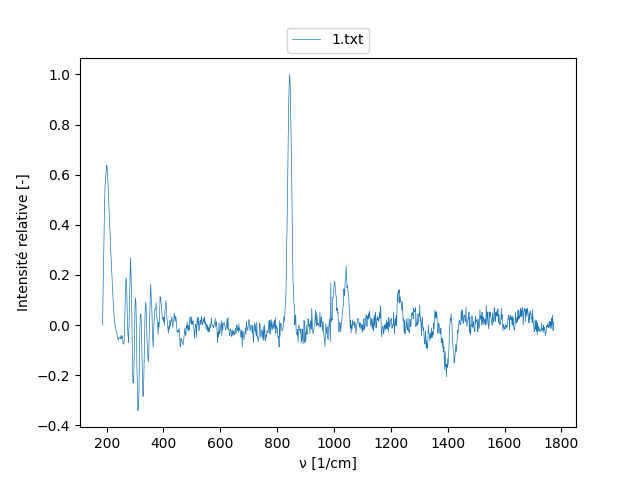
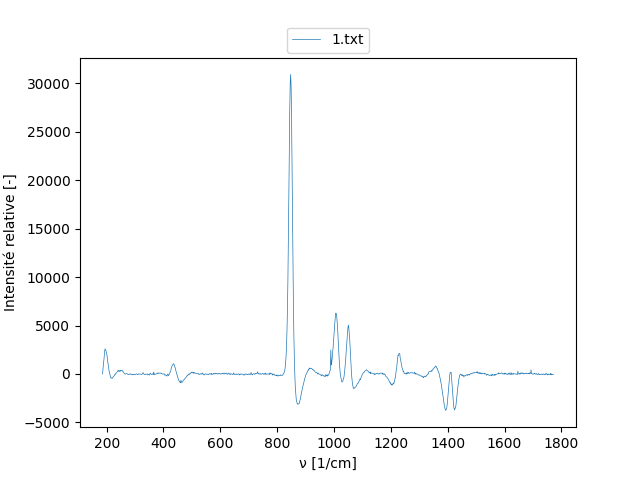
shits à becla

diff --git a/raman_spectrum_copy.py b/raman_spectrum_copy.py
@@ -1,0 +1,138 @@
+"Fichier qui implémente la classe d'objets raman_spectum qui sert à analyser les spectres raman"
+import numpy as np
+import matplotlib.pyplot as plt
+import pandas as pd
+import glob
+from scipy import stats, interpolate
+from scipy.signal import find_peaks
+
+
+class RamanSpectrum:
+    def __init__(self, fich, promi):
+        # self.data = np.genfromtxt(fich, delimiter='     ')
+        self.data = np.genfromtxt(fich, delimiter=',')
+        self.raman = self.data[:, 0]
+        self.counts = self.data[:, 2]
+        self.promi = int(promi)
+        self.peaks = self.getPeaks()
+        self.name = fich
+
+    def graph(self, peaks=False):
+        plt.plot(self.raman, self.counts, label=f'{self.name}')
+        if peaks:
+            for x in self.peaks:
+                plt.plot(x[0], x[1], 'o', color='red')
+                plt.text(x[0], x[1] + 0.5, '({}, {})'.format(x[0], x[1]))
+        plt.legend()
+        plt.xlabel('Raman shift')
+        plt.ylabel('Counts')
+    def graph_zero(self, peaks=False):
+        liste = list(zip(self.raman, self.counts))
+        raman = []
+        counts = []
+        for x in liste:
+            if x[0] >= 0:
+                raman.append(x[0])
+                counts.append(x[1])
+        plt.plot(raman, counts, label=f'{self.name}')
+        if peaks:
+            for x in self.peaks:
+                plt.plot(x[0], x[1], 'o', color='red')
+                plt.text(x[0], x[1] + 0.5, '({}, {})'.format(x[0], x[1]))
+                plt.legend()
+                plt.xlabel('Raman shift')
+                plt.ylabel('Counts')
+
+
+    def getPeaks(self):
+        promi = self.promi
+        ens_ini = list(zip(self.data[:, 0], self.data[:, 2]))
+        raman = []
+        counts = []
+        for x in ens_ini:
+            if x[0] >= 0:
+                raman.append(x[0])
+                counts.append(x[1])
+        raman, counts = np.array(raman), np.array(counts)
+        ens_fin = list(zip(raman, counts))
+        points_maxi = []
+        b = find_peaks(counts, prominence=promi)
+        for x in b[0]:
+            points_maxi.append(ens_fin[int(x)])
+        return points_maxi
+
+    def codeDan(self):
+        px = [625, 882, 1134, 1149]
+        nm = [671, 690, 708, 709]
+
+        slope, intercept, r_value, p_value, std_err = stats.linregress(px, nm)
+        print(f"a={slope:.5f}", f"b={intercept:.3f}",f"σ={std_err:.3e}")
+
+        x_new = np.array(range(1339))
+        nm = x_new*slope+intercept
+
+        cm = 1/(632.8e-7) - 1/(nm*1e-7)
+        i=0
+
+        # Spectre
+        for file in glob.glob(self.name):
+            soln = file.split("_")[2]
+            df = pd.read_csv(file)
+            y = df.iloc[:, 2]
+            y = y / max(abs(y))
+            #plt.plot(nm, y, label=f"{soln}", linewidth=0.5)
+
+        #plt.xlabel("$\lambda$ [nm]")
+        #plt.ylabel("Intensité relative [-]")
+        #plt.legend(loc="upper center", ncol=5, bbox_to_anchor=(0.5, 1.1))
+        #plt.savefig("Spectre_huiles.png")
+        #plt.show()
+        #plt.clf()
+
+
+        for file in glob.glob(self.name):
+            soln = file.split("_")[2]
+            print(soln)
+            df = pd.read_csv(file)
+            y = df.iloc[:, 2]
+            # plt.plot(cm, y, label=f"{soln}", linewidth=0.5) # Spectre
+            d = 25
+            f2 = interpolate.interp1d(cm[200:][::d], y[200:][::d], kind='quadratic')
+            y = y[200:1200]-f2(cm[200:1200])
+            # y = y / max(y)
+            mask_1444 = (cm[200:1200] > 1400) & (cm[200:1200] < 1500)
+            mask_1661 = (cm[200:1200] > 1600) & (cm[200:1200] < 1700)
+            I_1444 = max(y[mask_1444])
+            I_1661 = max(y[mask_1661])
+            # plt.plot(cm[200:1200], f2(cm[200:1200]), label=f"{soln}", linewidth=0.5) # Background
+            # plt.plot(cm[200:1200], y+2*i, label=f"{soln}", linewidth=0.5)
+            print(f"r: {I_1444/I_1661*100:.2f}%")
+            i += 1
+
+        self.data_Dan = np.array([cm[200:1200], y]).T
+
+        #plt.xlabel("ν [1/cm]")
+        #plt.ylabel("Intensité relative [-]")
+        #plt.legend(loc="upper center", ncol=i, bbox_to_anchor=(0.5, 1.1))
+        #plt.savefig("Raman_huiles.png")
+        #plt.show()
+        #plt.clf()
+
+    def getDanPeaks(self):
+        self.codeDan()
+        promi = self.promi
+        ens_ini = list(zip(self.data_Dan[:, 0], self.data_Dan[:, 1]))
+        raman = []
+        counts = []
+        for x in ens_ini:
+            if x[0] >= 0:
+                raman.append(x[0])
+                counts.append(x[1])
+        raman, counts = np.array(raman), np.array(counts)
+        ens_fin = list(zip(raman, counts))
+        points_maxi = []
+        b = find_peaks(counts, prominence=promi)
+        for x in b[0]:
+            points_maxi.append(ens_fin[int(x)])
+        return points_maxi
+

diff --git a/code_dan copy.py b/code_dan copy.py
@@ -19,7 +19,7 @@ cm = 1/(632.8e-7) - 1/(nm*1e-7)
 i=0
 
 # Spectre
-for file in glob.glob("Mesures bonnes\/rhum_brun2_1.txt"):
+for file in glob.glob("Mesures bonnes\/eth_1001_1.txt"):
     soln = file.split("_")[2]
     df = pd.read_csv(file)
     y = df.iloc[:, 2]
@@ -34,7 +34,7 @@ plt.show()
 plt.clf()
 
 
-for file in glob.glob("Mesures bonnes\/rhum_brun2_1.txt"):
+for file in glob.glob("Mesures bonnes\/eth_1001_1.txt"):
     soln = file.split("_")[2]
     print(soln)
     df = pd.read_csv(file)
@@ -43,7 +43,7 @@ for file in glob.glob("Mesures bonnes\/rhum_brun2_1.txt"):
     d = 25
     f2 = interpolate.interp1d(cm[200:][::d], y[200:][::d], kind='quadratic')
     y = y[200:1200]-f2(cm[200:1200])
-    y = y / max(y)
+    # y = y / max(y)
     mask_1444 = (cm[200:1200] > 1400) & (cm[200:1200] < 1500)
     mask_1661 = (cm[200:1200] > 1600) & (cm[200:1200] < 1700)
     I_1444 = max(y[mask_1444])
@@ -52,6 +52,8 @@ for file in glob.glob("Mesures bonnes\/rhum_brun2_1.txt"):
     plt.plot(cm[200:1200], y+2*i, label=f"{soln}", linewidth=0.5)
     print(f"r: {I_1444/I_1661*100:.2f}%")
     i += 1
+
+donnees_modif = np.array(cm[200:1200], y)
         
 plt.xlabel("ν [1/cm]")
 plt.ylabel("Intensité relative [-]")

diff --git a/becla.py b/becla.py
@@ -1,5 +1,36 @@
 import numpy as np
 import matplotlib.pyplot as plt
-from raman_spectrum import RamanSpectrum
+from raman_spectrum_copy import RamanSpectrum
 
 
+eth25 = RamanSpectrum("Mesures bonnes\eth_251_1.txt", 1800)
+eth50 = RamanSpectrum("Mesures bonnes\eth_501_1.txt", 1800)
+eth75 = RamanSpectrum("Mesures bonnes\eth_751_1.txt", 1800)
+eth100 = RamanSpectrum("Mesures bonnes\eth_1001_1.txt", 1800)
+
+peaks25 = eth25.getDanPeaks()
+peaks50 = eth50.getDanPeaks()
+peaks75 = eth75.getDanPeaks()
+peaks100 = eth100.getDanPeaks()
+
+bons_peaks = []
+alco = [25, 50, 75, 100]
+
+for i in peaks25:
+    if 840 < i[0] < 850:
+        bons_peaks.append(i[1])
+
+for i in peaks50:
+    if 840 < i[0] < 850:
+        bons_peaks.append(i[1])
+
+for i in peaks75:
+    if 840 < i[0] < 850:
+        bons_peaks.append(i[1])
+
+for i in peaks100:
+    if 840 < i[0] < 850:
+        bons_peaks.append(i[1])
+
+plt.plot(alco, bons_peaks)
+plt.show()
